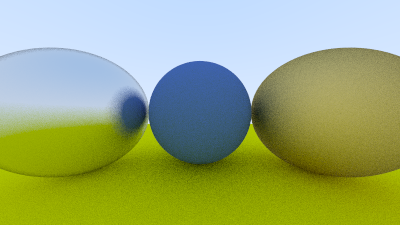
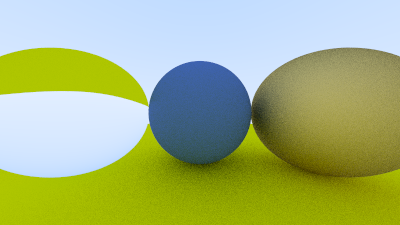
add Dielectric material

Changed region(s): [[0.0, 0.1867, 0.48, 0.9022]]

diff --git a/src/material.rs b/src/material.rs
@@ -3,7 +3,7 @@ use crate::ray::Ray;
 use crate::vec3::{Color, Vec3};
 
 pub trait Material {
-    fn scatter(&self, ray: &Ray, hit_record: &HitRecord) -> Option<(&Color, Ray)>;
+    fn scatter(&self, ray: &Ray, hit_record: &HitRecord) -> Option<(Color, Ray)>;
 }
 
 pub struct Lambertian {
@@ -17,7 +17,7 @@ impl Lambertian {
 }
 
 impl Material for Lambertian {
-    fn scatter(&self, _ray: &Ray, hit_record: &HitRecord) -> Option<(&Color, Ray)> {
+    fn scatter(&self, _ray: &Ray, hit_record: &HitRecord) -> Option<(Color, Ray)> {
         let mut scatter_direction = hit_record.normal() + Vec3::random_unit_vector();
 
         // Catch degenerate scatter direction
@@ -26,7 +26,7 @@ impl Material for Lambertian {
         }
 
         let scattered = Ray::new(hit_record.p().clone(), scatter_direction);
-        let attenuation = &self.albedo;
+        let attenuation = self.albedo.clone();
 
         Some((attenuation, scattered))
     }
@@ -47,15 +47,44 @@ impl Metal {
 }
 
 impl Material for Metal {
-    fn scatter(&self, ray: &Ray, hit_record: &HitRecord) -> Option<(&Color, Ray)> {
+    fn scatter(&self, ray: &Ray, hit_record: &HitRecord) -> Option<(Color, Ray)> {
         let reflected = ray.direction().reflect(hit_record.normal());
         let reflected = reflected.unit() + (self.fuzz * Vec3::random_unit_vector());
         let scattered = Ray::new(hit_record.p().clone(), reflected);
-        let attenuation = &self.albedo;
+        let attenuation = self.albedo.clone();
         if scattered.direction().dot(hit_record.normal()) > 0. {
             Some((attenuation, scattered))
         } else {
             None
         }
+    }
+}
+
+pub struct Dielectric {
+    /// Refractive index in vacuum or air, or the ratio of the material's refractive index over
+    /// the refractive index of the enclosing media
+    refraction_index: f64,
+}
+
+impl Dielectric {
+    pub const fn new(refraction_index: f64) -> Self {
+        Self { refraction_index }
+    }
+}
+
+impl Material for Dielectric {
+    fn scatter(&self, ray: &Ray, hit_record: &HitRecord) -> Option<(Color, Ray)> {
+        let attenuation = Color::new(1., 1., 1.);
+        let refraction_ratio = if hit_record.front_face() {
+            1. / self.refraction_index
+        } else {
+            self.refraction_index
+        };
+
+        let unit_direction = ray.direction().unit();
+        let refracted = unit_direction.refract(hit_record.normal(), refraction_ratio);
+
+        let scattered = Ray::new(hit_record.p().clone(), refracted);
+        Some((attenuation, scattered))
     }
 }

diff --git a/src/vec3.rs b/src/vec3.rs
@@ -112,6 +112,13 @@ impl Vec3 {
     pub fn reflect(&self, n: &Self) -> Self {
         self - n * 2. * self.dot(n)
     }
+
+    pub fn refract(&self, n: &Self, etai_over_etat: f64) -> Self {
+        let cos_theta = self.neg().dot(n).min(1.);
+        let r_out_perp = etai_over_etat * (self + cos_theta * n);
+        let r_out_parallel = (1. - r_out_perp.length_squared()).abs().sqrt().neg() * n;
+        r_out_perp + r_out_parallel
+    }
 }
 
 impl Index<usize> for Vec3 {
@@ -252,6 +259,16 @@ impl Mul<Vec3> for f64 {
     }
 }
 
+impl Mul<&Vec3> for f64 {
+    type Output = Vec3;
+
+    fn mul(self, rhs: &Vec3) -> Self::Output {
+        Vec3 {
+            e: [self * rhs[0], self * rhs[1], self * rhs[2]],
+        }
+    }
+}
+
 impl Mul<Self> for Vec3 {
     type Output = Self;
 
@@ -315,6 +332,16 @@ impl Neg for Vec3 {
 
     fn neg(self) -> Self::Output {
         Self {
+            e: [-self[0], -self[1], -self[2]],
+        }
+    }
+}
+
+impl Neg for &Vec3 {
+    type Output = Vec3;
+
+    fn neg(self) -> Self::Output {
+        Vec3 {
             e: [-self[0], -self[1], -self[2]],
         }
     }

diff --git a/src/main.rs b/src/main.rs
@@ -2,7 +2,7 @@ use std::rc::Rc;
 
 use crate::camera::Camera;
 use crate::hittable_list::HittableList;
-use crate::material::{Lambertian, Metal};
+use crate::material::{Dielectric, Lambertian, Metal};
 use crate::sphere::Sphere;
 use crate::vec3::{Color, Point3};
 
@@ -26,7 +26,7 @@ fn main() {
     // Materials
     let material_ground = Rc::new(Lambertian::new(Color::new(0.8, 0.8, 0.0)));
     let material_center = Rc::new(Lambertian::new(Color::new(0.1, 0.2, 0.5)));
-    let material_left = Rc::new(Metal::new(Color::new(0.8, 0.8, 0.8), 0.3));
+    let material_left = Rc::new(Dielectric::new(1.5));
     let material_right = Rc::new(Metal::new(Color::new(0.8, 0.6, 0.2), 1.0));
 
     // World

diff --git a/src/sphere.rs b/src/sphere.rs
@@ -45,9 +45,9 @@ impl Hittable for Sphere {
         let sqrt_d = discriminant.sqrt();
 
         // Find the nearest root that lies in the acceptable range
-        let root = (half_b - sqrt_d) / a;
+        let mut root = (half_b - sqrt_d) / a;
         if !ray_t.surrounds(root) {
-            let root = (half_b + sqrt_d) / a;
+            root = (half_b + sqrt_d) / a;
             if !ray_t.surrounds(root) {
                 return None;
             }

diff --git a/src/hittable.rs b/src/hittable.rs
@@ -56,6 +56,10 @@ impl HitRecord {
     pub fn material(&self) -> Rc<dyn Material> {
         self.mat.clone()
     }
+
+    pub const fn front_face(&self) -> bool {
+        self.front_face
+    }
 }
 
 pub trait Hittable {
